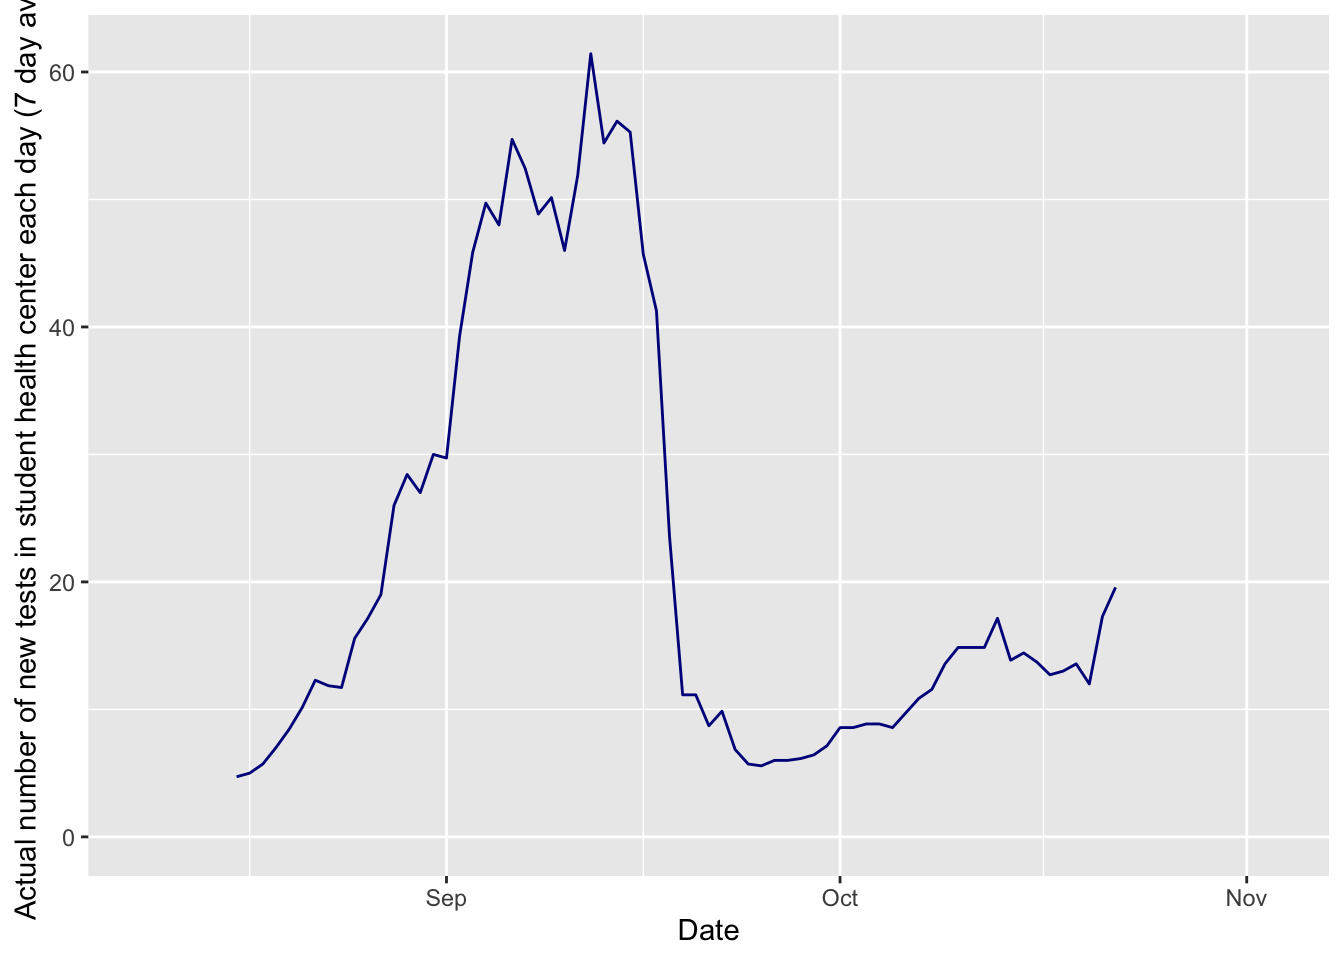
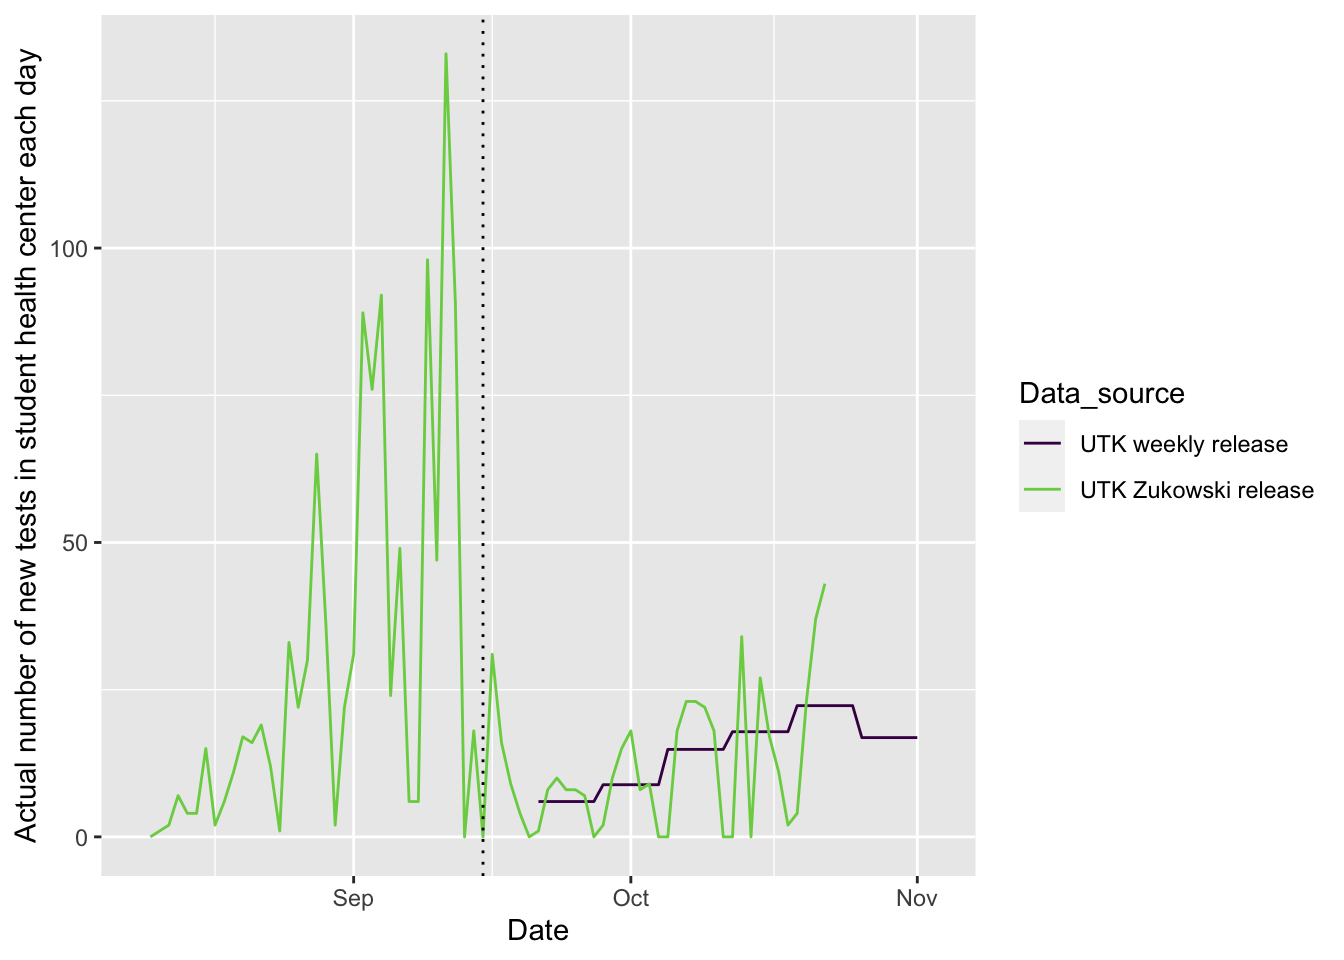
updating site

diff --git a/docs/covid.html b/docs/covid.html
@@ -426,7 +426,7 @@ $(document).ready(function () {
 <li>Info about cases at <a href="#ut">U. of Tennessee, Knoxville</a> (using public information only)</li>
 <li><a href="#webcams">Webcams</a> showing activity at local sites, though not quite at the resolution to point to mask usage or not</li>
 </ul>
-<p>The following plots are created in R using data from <a href="https://covid19datahub.io" class="uri">https://covid19datahub.io</a> (Guidotti, E., Ardia, D., (2020), “COVID-19 Data Hub”, Working paper, doi: 10.13140/RG.2.2.11649.81763), as well as information from Google and the <a href="https://www.tn.gov/health/cedep/ncov/data/downloadable-datasets.html">state of Tennessee dataset page</a> and plotting and analysis using the <code>forecast</code>, <code>ggplot2</code>, <code>reshape2</code>, and <code>dplyr</code> packages. Plots created on 2020-11-03 09:49:40. I use a seven day rolling average for most plots using the <code>geom_ma</code> function of <code>tidyquant</code>.</p>
+<p>The following plots are created in R using data from <a href="https://covid19datahub.io" class="uri">https://covid19datahub.io</a> (Guidotti, E., Ardia, D., (2020), “COVID-19 Data Hub”, Working paper, doi: 10.13140/RG.2.2.11649.81763), as well as information from Google and the <a href="https://www.tn.gov/health/cedep/ncov/data/downloadable-datasets.html">state of Tennessee dataset page</a> and plotting and analysis using the <code>forecast</code>, <code>ggplot2</code>, <code>reshape2</code>, and <code>dplyr</code> packages. Plots created on 2020-11-03 10:24:13. I use a seven day rolling average for most plots using the <code>geom_ma</code> function of <code>tidyquant</code>.</p>
 <h2 id="cases">
 Cases
 </h2>
@@ -480,14 +480,14 @@ Ages
 University of Tennessee, Knoxville
 </h2>
 <p>Another question is what is happening at UTK. There is official information available at <a href="https://www.utk.edu/coronavirus/guides/data-monitoring-and-contingency-options" class="uri">https://www.utk.edu/coronavirus/guides/data-monitoring-and-contingency-options</a>, of which I show one figure below. There are also reports in the news media, such as <a href="https://www.knoxnews.com/story/sports/college/university-of-tennessee/football/2020/08/17/tennessee-football-covid-19-cases-jeremy-pruitt-vols/5586379002/">this article from Aug. 18</a> showing that 23 of 91 football players (over 25%) have had positive covid tests since returning but before the start of classes. New York has <a href="https://www.nbcnewyork.com/news/local/alarming-indefensible-cuomo-ny-health-chief-blast-cdc-over-guidelines-change/2588146/">set a threshold of 100 cases or 5% positive tests</a> for colleges to move online; UT has had over that many active cases; its positivity rate is not officially public (as of now), though <a href="https://sites.google.com/view/utk-covid19">this site</a> provides such information. The numbers of cases and tests have dramatically dropped recently at UT; one troubling suggestion for why is <a href="https://www.wvlt.tv/2020/09/15/covid-19-pacts-happening-among-ut-students/">reports of “pacts”</a> by students not to get tested locally so as to avoid notifying the university. This violates the agreement students made before classes started and puts the local community, both on and off campus, at greater risk. UT is trying tests of sewage and saliva tests: upcoming saliva tests are scheduled at <a href="https://calendar.utk.edu/covid-19_testing" class="uri">https://calendar.utk.edu/covid-19_testing</a>.</p>
-<p>For a detailed look at UT, check out <a href="https://sites.google.com/view/utk-covid19">https://sites.google.com/view/utk-covid19</a>, for work done on an individual basis by a UTK student, Alex Zukowski. UT’s official dashboard is at <a href="https://www.utk.edu/coronavirus/guides/data-monitoring-and-contingency-options/" class="uri">https://www.utk.edu/coronavirus/guides/data-monitoring-and-contingency-options/</a> but has less detail.</p>
+<p>For a detailed look at UT, check out <a href="https://sites.google.com/view/utk-covid19">https://sites.google.com/view/utk-covid19</a>, for work done on an individual basis by a UTK student, Alex Zukowski. UT’s official dashboard is at <a href="https://www.utk.edu/coronavirus/guides/data-monitoring-and-contingency-options/" class="uri">https://www.utk.edu/coronavirus/guides/data-monitoring-and-contingency-options/</a> but has less detail. I use the daily testing counts UT used to provide to Alex Zukowski as well as UT’s weekly reports of the totals for that week. To convert to daily data, I divide the weekly reports by seven.</p>
 <iframe src="https://datastudio.google.com/embed/reporting/bb71d0fd-2817-4e14-9f84-7f74a1e503b5/page/Qr2ZB" width="600" height="300">
 </iframe>
 <p>UT is now publishing results of saliva tests. ALL students residing in dorms, fraternities, or sororities have agreed to testing, but in some cases over half are missing mandatory testing. No sanctions have been announced yet. This table shows testing results of saliva tests:</p>
 <iframe width="600" height="225" src="https://datastudio.google.com/embed/reporting/dd6254bd-e3f4-4636-9fc8-3116bc64e033/page/auKkB" frameborder="0" style="border:0" allowfullscreen>
 </iframe>
 <p>Testing at UT is also a question. The plot below shows reported number of tests at the student health center, based on data aggregated by Alex Zukowski (see above). Note that these are the raw number of reported tests: a value of 20 means out of all 30,0000 UTK students, only 20 individuals were tested that day at the student health center. Not included here are athletes, who have much more frequent testing.</p>
-<p>The red line on the plot shows the date of a <a href="https://www.wvlt.tv/2020/09/15/covid-19-pacts-happening-among-ut-students/">news story about covid pacts among students to avoid getting tested locally so they could avoid quarantine or isolation</a>. Spread by infected individuals matters, even if they personally are asymptomatic, so personal actions to avoid testing and quarantine / isolation can lead to disease spread to others who might not be so lucky, so it’s very disappointing to hear of this. The drop in testing after that line may be purely coincidental, but it is a remarkable change in trend. Other universities test more intensely; for example, <a href="https://splunk-public.machinedata.illinois.edu/en-US/app/uofi_shield_public_APP/home">U. of Illinois tests several thousand per day, not a few dozen</a>. Not being an epidemiologist I do not want to weigh in on what strategy is optimal, but it is a remarkable contrast in approaches. UT is also starting to report on mandatory saliva-based testing, where they ask everyone residing in a dorm for a saliva sample, pool 3-5 individuals in a tube, test each tube, and then bring back individuals from pools that tested positive for individual testing. From 19.1 to 28.3 percent of the students listed as being in these dorms do not contribute samples.</p>
+<p>The dotted line on the plot shows the date of a <a href="https://www.wvlt.tv/2020/09/15/covid-19-pacts-happening-among-ut-students/">news story about covid pacts among students to avoid getting tested locally so they could avoid quarantine or isolation</a>. Spread by infected individuals matters, even if they personally are asymptomatic, so personal actions to avoid testing and quarantine / isolation can lead to disease spread to others who might not be so lucky, so it’s very disappointing to hear of this. The drop in testing after that line may be purely coincidental, but it is a remarkable change in trend. Other universities test more intensely; for example, <a href="https://splunk-public.machinedata.illinois.edu/en-US/app/uofi_shield_public_APP/home">U. of Illinois tests several thousand per day, not a few dozen</a>. Not being an epidemiologist I do not want to weigh in on what strategy is optimal, but it is a remarkable contrast in approaches. UT is also starting to report on mandatory saliva-based testing, where they ask everyone residing in a dorm for a saliva sample, pool 3-5 individuals in a tube, test each tube, and then bring back individuals from pools that tested positive for individual testing. From 19.1 to 28.3 percent of the students listed as being in these dorms do not contribute samples.</p>
 <p><img src="covid_files/figure-html/plotstestingut-1.png" width="672" /></p>
 <p>As for the county data, the positivity rate can also be important: if all the tests show up positive, likey symptomatic, cases, then there are likely other people being missed. The <i>New York Times</i> <a href="https://www.nytimes.com/2020/07/14/us/coronavirus-schools-fall.html">reports</a> on July 14, 2020, that, “As education leaders decide whether to reopen classrooms in the fall amid a raging pandemic, many are looking to a standard generally agreed upon among epidemiologists: To control community spread of the coronavirus, the average daily infection rate among those who are tested should not exceed 5 percent.” The horizontal black line below shows that guidance. The CDC provides thoughts about possible testing strategies at colleges and universities <a href="https://www.cdc.gov/coronavirus/2019-ncov/community/colleges-universities/ihe-testing.html#when-to-test">here</a> but not a firm number for how much testing they believe is necessary.</p>
 <p><img src="covid_files/figure-html/plotsutkproportion-1.png" width="672" /></p>

diff --git a/docs/covid2.html b/docs/covid2.html
@@ -426,7 +426,7 @@ $(document).ready(function () {
 <li>Info about cases at <a href="#ut">U. of Tennessee, Knoxville</a> (using public information only)</li>
 <li><a href="#webcams">Webcams</a> showing activity at local sites, though not quite at the resolution to point to mask usage or not</li>
 </ul>
-<p>The following plots are created in R using data from <a href="https://covid19datahub.io" class="uri">https://covid19datahub.io</a> (Guidotti, E., Ardia, D., (2020), “COVID-19 Data Hub”, Working paper, doi: 10.13140/RG.2.2.11649.81763), as well as information from Google and the <a href="https://www.tn.gov/health/cedep/ncov/data/downloadable-datasets.html">state of Tennessee dataset page</a> and plotting and analysis using the <code>forecast</code>, <code>ggplot2</code>, <code>reshape2</code>, and <code>dplyr</code> packages. Plots created on 2020-11-03 09:51:28. I use a seven day rolling average for most plots using the <code>geom_ma</code> function of <code>tidyquant</code>.</p>
+<p>The following plots are created in R using data from <a href="https://covid19datahub.io" class="uri">https://covid19datahub.io</a> (Guidotti, E., Ardia, D., (2020), “COVID-19 Data Hub”, Working paper, doi: 10.13140/RG.2.2.11649.81763), as well as information from Google and the <a href="https://www.tn.gov/health/cedep/ncov/data/downloadable-datasets.html">state of Tennessee dataset page</a> and plotting and analysis using the <code>forecast</code>, <code>ggplot2</code>, <code>reshape2</code>, and <code>dplyr</code> packages. Plots created on 2020-11-03 10:26:08. I use a seven day rolling average for most plots using the <code>geom_ma</code> function of <code>tidyquant</code>.</p>
 <h2 id="cases">
 Cases
 </h2>
